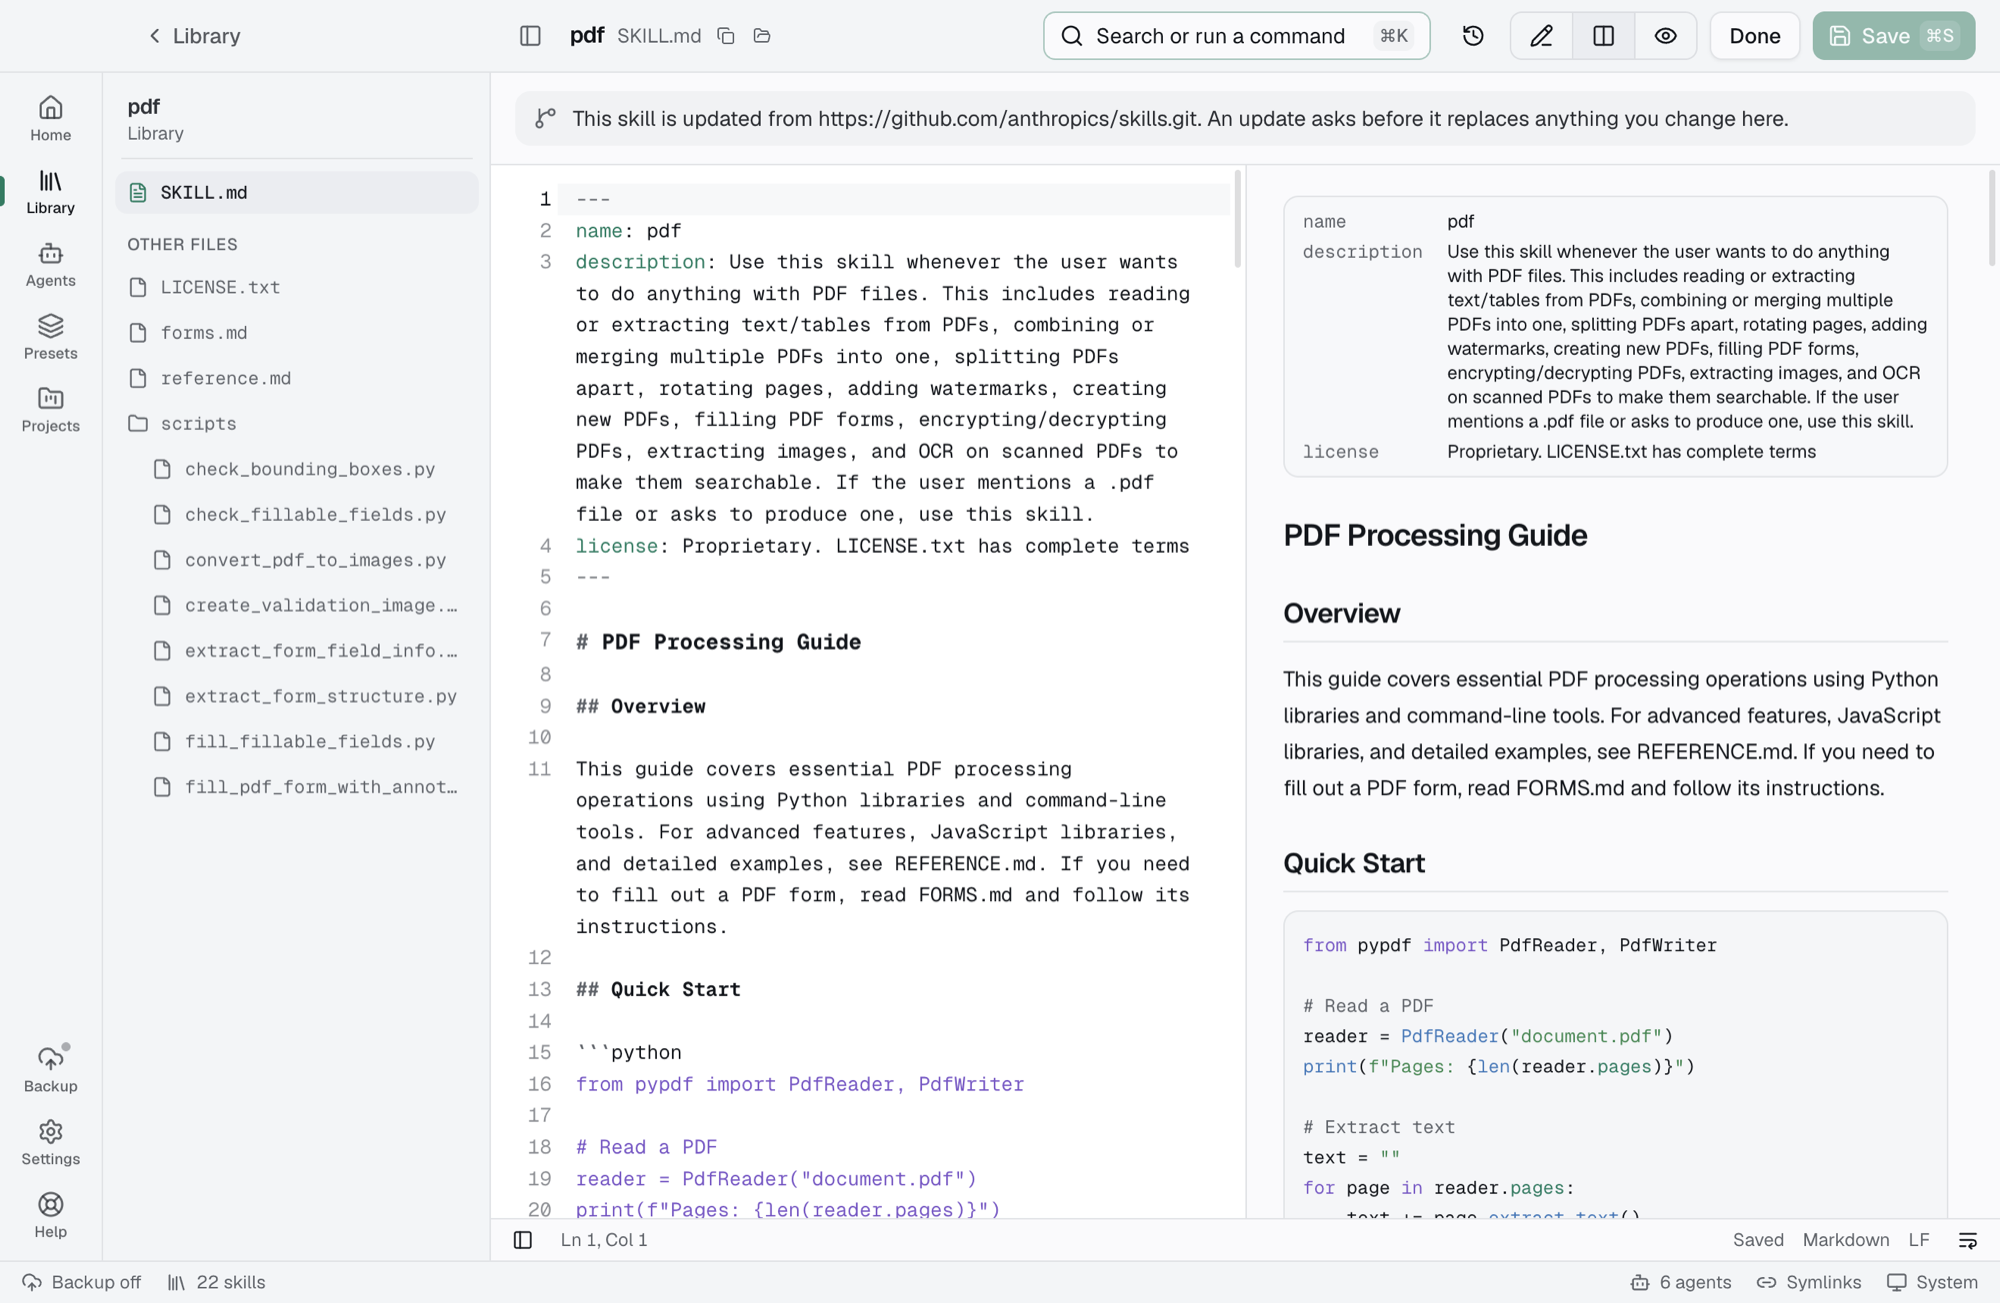
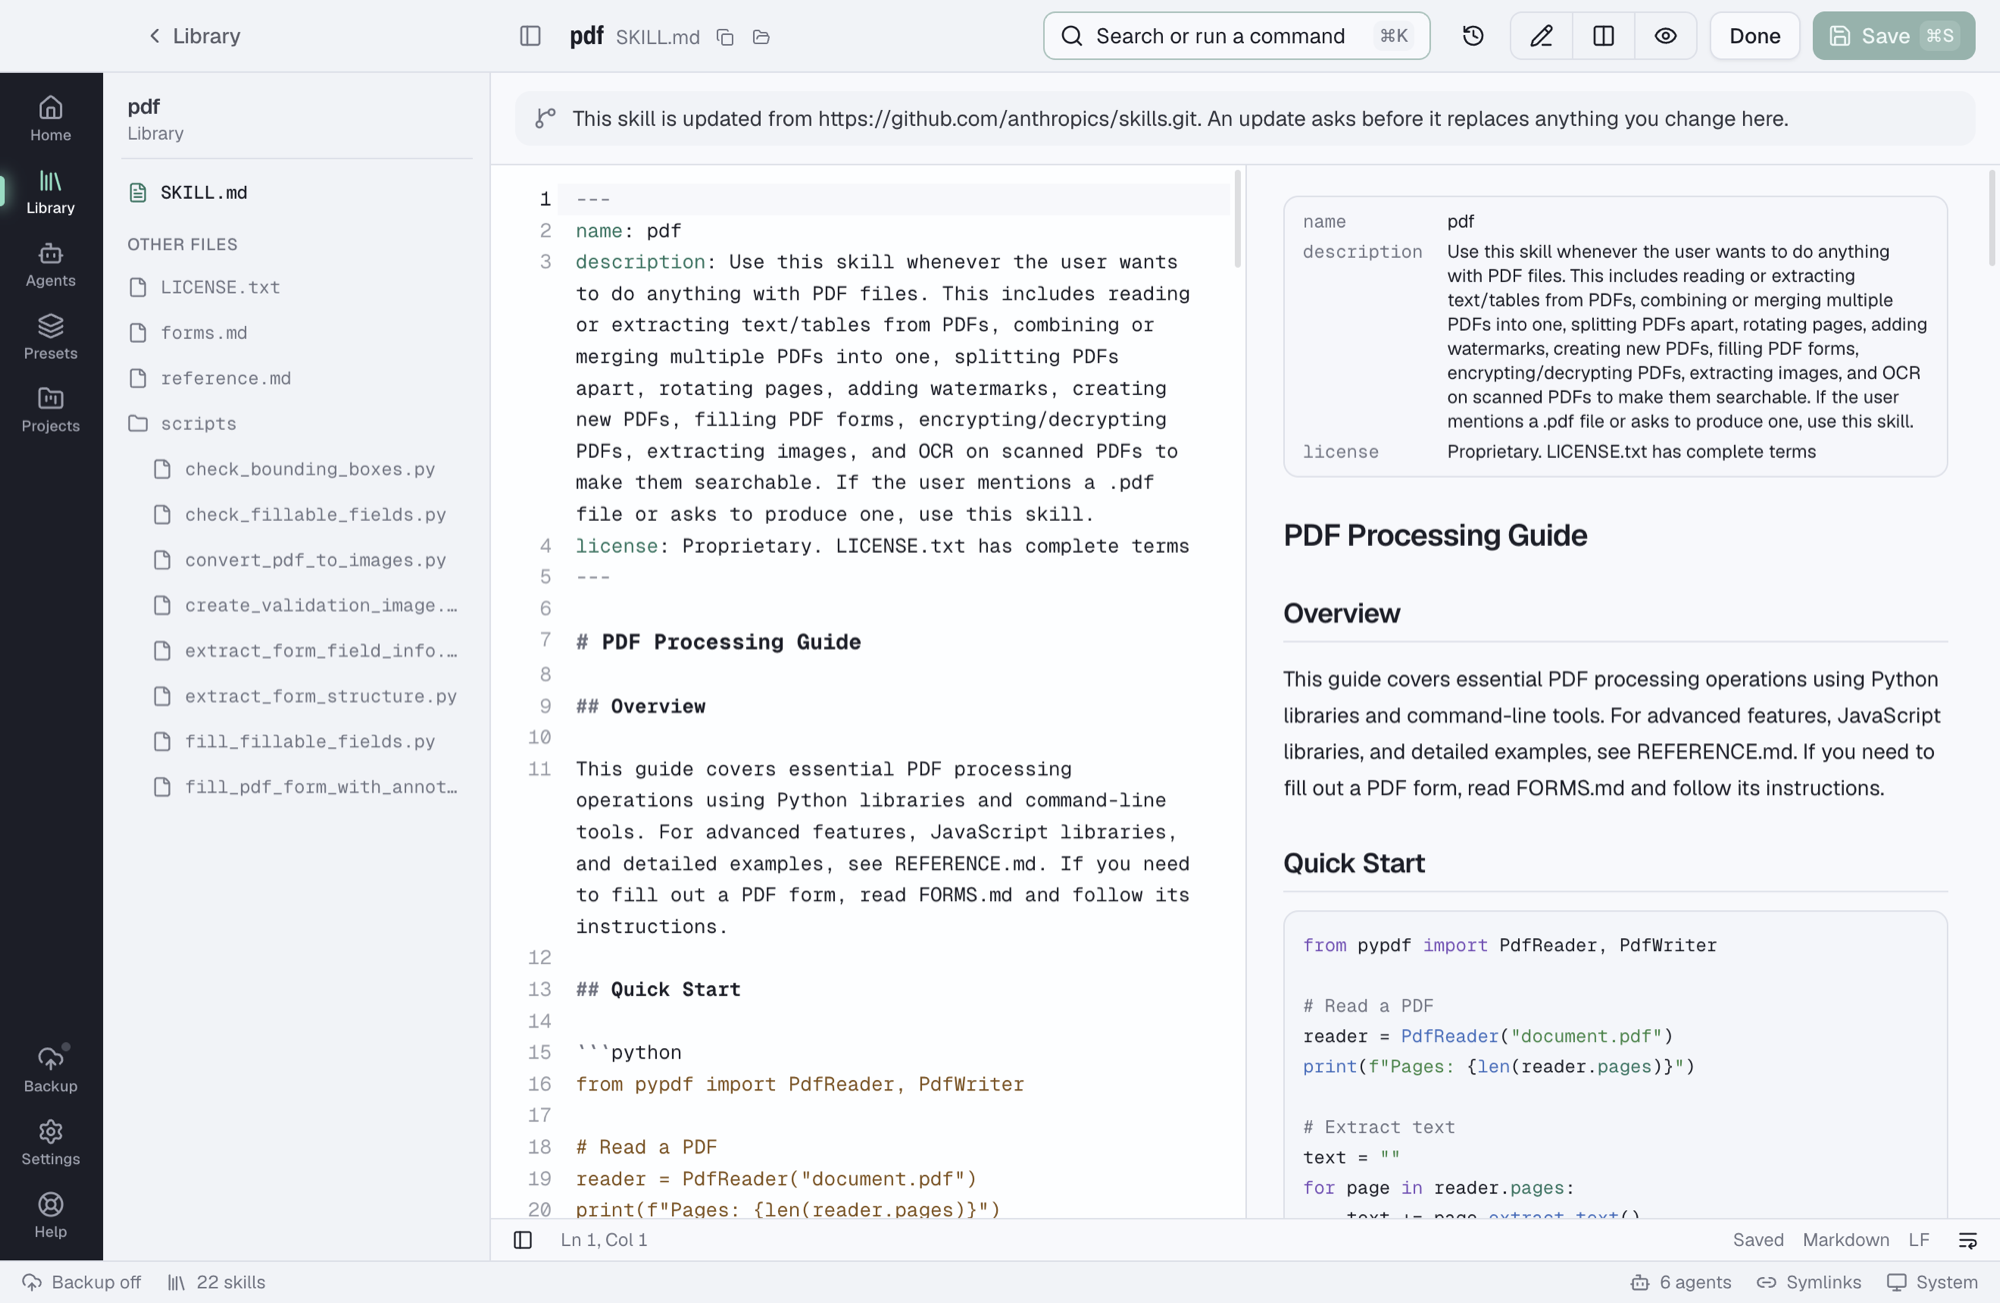
docs: update screenshots for the new theme and add dark mode

diff --git a/README.md b/README.md
@@ -44,6 +44,10 @@ itself.
 
 ![The marketplace: popular skills with one-click install](docs/screenshots/marketplace.png)
 
+**Dark mode.** Light, dark or follow the system, from the status bar or Settings.
+
+![The library in dark mode](docs/screenshots/library-dark.png)
+
 ## Features
 
 - **Library:** one folder for every skill, with search, tags, filters, batch actions and checks against the Agent Skills format.
